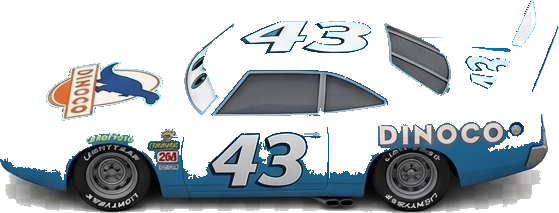
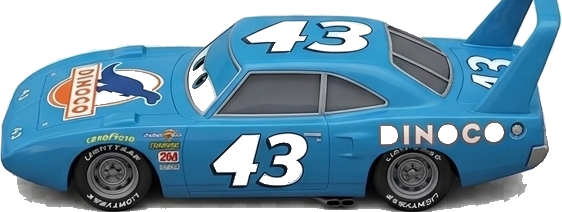
Fix race direction (droite→gauche), ALL_STARTS positions, re-extract The King
Direction: col0 = tête (gauche), avance = col-1, recul = col+1
- ALL_STARTS = [[2,2],[1,2],[1,3],[2,3],[2,4],[1,4]] (positions 3x2..5x3 en 1-indexé)
- sortedCars: cellNum croissant (cellule 1 col0 = tête)
- tryPushBack: col+1, scan droite, chain col+1
- applyPushAgainstEdge rivals: target=COLS-1 (droite = arrière)
- wallChainFallback: recul col+1 (vers droite = arrière)
- processOneRival: inFront=col-1, avance=col-1, tête=col===0
  wasAhead=rival.col<player.col, aspiration=pc-1
- The King (#43): re-extraction par saturation (bg gris vs carrosserie bleue)
  52480 → 87385 px opaques, détourage conservé

https://claude.ai/code/session_016ULjS5sK1wzyLYwtGwC2Eo

diff --git a/index.html b/index.html
@@ -328,17 +328,17 @@ body{background:#d4d8df;color:#1e293b;font-family:'Segoe UI',Arial,sans-serif;mi
 // ── CONSTANTS ──────────────────────────────────────────────────
 // Circuit paysage : 3 voies × 5 positions
 // row 0 = mur (haut), row 1 = milieu, row 2 = apron (bas)
-// col 4 = avant (tête), col 0 = arrière (queue)
+// col 0 = avant (tête/gauche), col 4 = arrière (queue/droite) — avance droite→gauche
 const ROWS=3, COLS=5;
 // Positions cellules calculées depuis les séparateurs de 1_card_board_3.png
-const CELL_X=[10.6,30.5,49.9,69.3,88.9]; // col 0-4 (back→front)
+const CELL_X=[10.6,30.5,49.9,69.3,88.9]; // col 0-4 (front→back, gauche→droite)
 const CELL_Y=[31.9,54.2,79.1]; // row 0-2 (wall→apron)
 const RIVALS=['red','blue','green','yellow','cyan'];
 
 // Index 0=P1(pôle/facile) … index 5=P6(dernier/difficile)
-// Grille de départ : apron(row2) et milieu(row1), cols 0-2
-// Numérotation snake : col4=15(tête), col0=1(queue)
-const ALL_STARTS=[[2,2],[1,2],[2,1],[1,1],[2,0],[1,0]];
+// Positions 3x2,3x3,4x2,4x3,5x2,5x3 (col×row 1-indexé)
+// Snake : col0=cellules 1-3 (tête), col4=cellules 13-15 (queue)
+const ALL_STARTS=[[2,2],[1,2],[1,3],[2,3],[2,4],[1,4]];
 
 // [row, col, dir]  dir: 1=bas(↓, vers apron), -1=haut(↑, vers mur)
 // Tours 10-50 & 110-150 → flèches ↑ (vers mur)
@@ -464,14 +464,15 @@ function swapPieces(id1,id2){
 const allCars=()=>['player',...RIVALS];
 
 // Numérotation snake : col pair = bottom→top, col impair = top→bottom
-// Exemple col0: (row2)=1,(row1)=2,(row0)=3 ; col1: (row0)=4,(row1)=5,(row2)=6 ; col4: (row0)=15
+// col0: (row2)=1,(row1)=2,(row0)=3 ; col1: (row0)=4,(row1)=5,(row2)=6 … col4: (row0)=15
+// Avance droite→gauche : cellule 1 (col0) = tête, cellule 15 (col4) = queue
 const cellNum=(r,c)=>c%2===0?c*3+(2-r)+1:c*3+r+1;
 
-// Classement : cellNum décroissant (col4 = tête = cellule 15)
+// Classement : cellNum croissant (cellule 1 = tête, cellule 15 = queue)
 function sortedCars(ids){
   return[...ids].sort((a,b)=>{
     const pa=S.cars[a],pb=S.cars[b];
-    return cellNum(pb.row,pb.col)-cellNum(pa.row,pa.col);
+    return cellNum(pa.row,pa.col)-cellNum(pb.row,pb.col);
   });
 }
 const standings  =()=>sortedCars(allCars().filter(id=>S.cars[id]));
@@ -486,18 +487,18 @@ const activeArrow=(r,c)=>{
 };
 
 // ── MOVEMENT ───────────────────────────────────────────────────
-// Reculer = col-1 (vers col0 = arrière du circuit)
+// Reculer = col+1 (vers col4 = droite/arrière)
 function tryPushBack(id,isPit=false){
   const{row,col}=S.cars[id];
-  if(col-1<0)return false;
-  const nc=col-1,occ=getCar(row,nc);
+  if(col+1>=COLS)return false;
+  const nc=col+1,occ=getCar(row,nc);
   if(!occ){movePiece(id,row,nc);return true;}
   if(isPit){movePiece(occ,row,col);movePiece(id,row,nc);return true;}
   const chain=[id];
   let scan=nc;
-  while(scan>=0&&getCar(row,scan)){chain.push(getCar(row,scan));scan--;}
-  if(scan<0)return false;
-  for(let i=chain.length-1;i>=0;i--)movePiece(chain[i],S.cars[chain[i]].row,S.cars[chain[i]].col-1);
+  while(scan<COLS&&getCar(row,scan)){chain.push(getCar(row,scan));scan++;}
+  if(scan>=COLS)return false;
+  for(let i=chain.length-1;i>=0;i--)movePiece(chain[i],S.cars[chain[i]].row,S.cars[chain[i]].col+1);
   return true;
 }
 
@@ -515,9 +516,9 @@ function applyPushAgainstEdge(id,sideRow){
     checkLose();tryPushBack(id);
   }else{
     const row=S.cars[id].row;
-    let target=0;
-    while(target<S.cars[id].col&&getCar(row,target))target++;
-    if(target<S.cars[id].col)movePiece(id,row,target);
+    let target=COLS-1;
+    while(target>S.cars[id].col&&getCar(row,target))target--;
+    if(target>S.cars[id].col)movePiece(id,row,target);
     stepLog(`${CAR_LBL[id]} → position arrière`,'neu');
   }
 }
@@ -531,7 +532,7 @@ function wallChainFallback(hitId){
   for(let i=_pushChain.length-1;i>=0;i--){
     const cid=_pushChain[i];
     const{row:cr,col:cc}=S.cars[cid];
-    if(cc>0&&!getCar(cr,cc-1))movePiece(cid,cr,cc-1);
+    if(cc+1<COLS&&!getCar(cr,cc+1))movePiece(cid,cr,cc+1);
   }
 }
 
@@ -602,8 +603,8 @@ function processOneRival(){
   const diIdx=RIVALS.indexOf(name);
   S.stepLogs=[];
   const gaugesBefore={...S.gauges};
-  const wasAhead =S.cars[name].col>S.cars.player.col;
-  const wasBehind=S.cars[name].col<S.cars.player.col;
+  const wasAhead =S.cars[name].col<S.cars.player.col;
+  const wasBehind=S.cars[name].col>S.cars.player.col;
   const die=S.dice[diIdx],ps=S.speed;
   let choiceNeeded=false;
 
@@ -616,24 +617,24 @@ function processOneRival(){
       stepLog(`Vitesse ${die} < ${ps} → ${ok?'recule':'bloqué'}`,ok?'':'neu');
       resolveArrow(name);
     }else if(die===6){
-      if(col===COLS-1){stepLog('Dé 6 → déjà en tête','neu');}
+      if(col===0){stepLog('Dé 6 → déjà en tête','neu');}
       else{
-        const inFront=getCar(row,col+1);
-        if(!inFront){movePiece(name,row,col+1);stepLog('Dé 6 → avance','good');}
+        const inFront=getCar(row,col-1);
+        if(!inFront){movePiece(name,row,col-1);stepLog('Dé 6 → avance','good');}
         else{swapPieces(name,inFront);stepLog(`Dé 6 → échange avec ${CAR_LBL[inFront]}`,'good');}
         resolveArrow(name);
       }
     }else{
-      if(col===COLS-1){stepLog(`Vitesse ${die} > ${ps} → déjà en tête`,'neu');}
+      if(col===0){stepLog(`Vitesse ${die} > ${ps} → déjà en tête`,'neu');}
       else{
-        const inFront=getCar(row,col+1);
+        const inFront=getCar(row,col-1);
         if(!inFront){
-          movePiece(name,row,col+1);
+          movePiece(name,row,col-1);
           stepLog(`Vitesse ${die} > ${ps} → avance`,'good');
           resolveArrow(name);
           if(ps<=2&&(wasAhead||wasBehind)){
             const{row:pr,col:pc}=S.cars.player;
-            if(pc<COLS-1&&!getCar(pr,pc+1)){movePiece('player',pr,pc+1);stepLog('Aspiration ! Entraîné en avant','good');}
+            if(pc>0&&!getCar(pr,pc-1)){movePiece('player',pr,pc-1);stepLog('Aspiration ! Entraîné en avant','good');}
           }
         }else{
           const canU=inBounds(row-1,col)&&!getCar(row-1,col);
